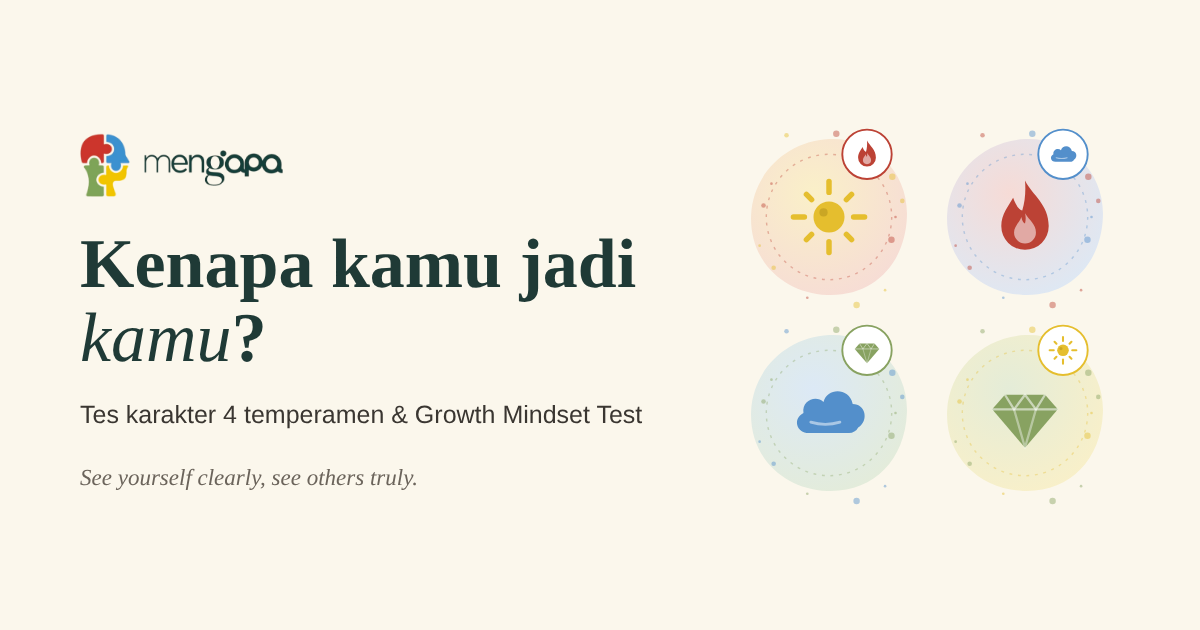
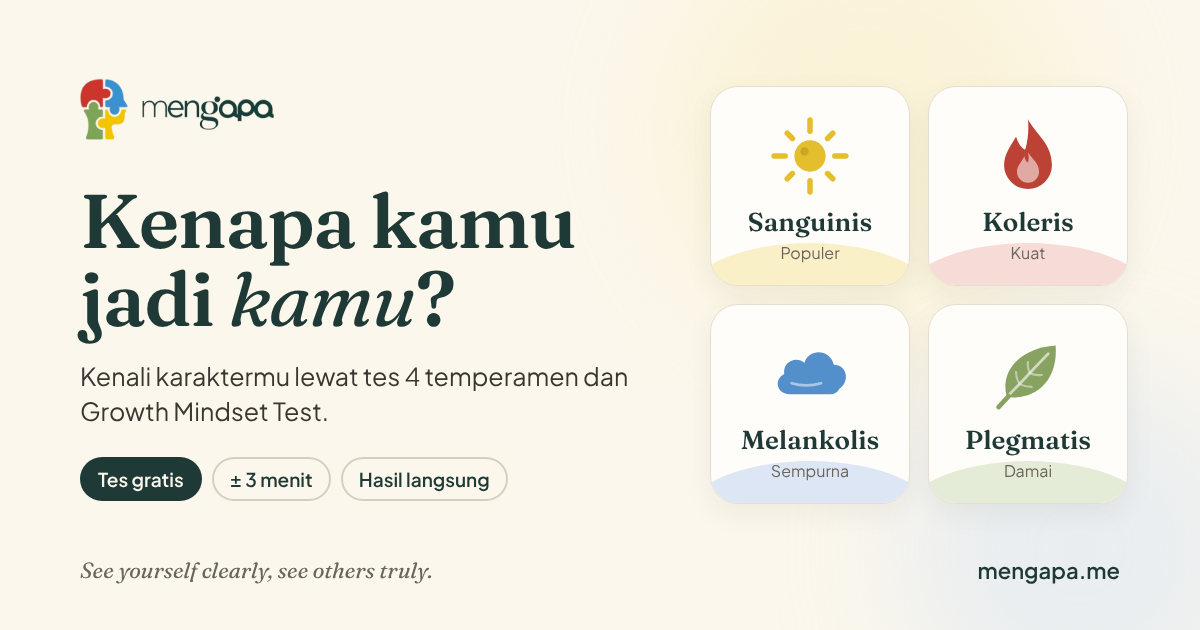
New link preview image, absolute og:image
Claude-Session: https://claude.ai/code/session_01Eb9LF9UwswxkZAqvSx1YYX

diff --git a/index.html b/index.html
@@ -9,7 +9,13 @@
   <meta property="og:type" content="website" />
   <meta property="og:title" content="Mengapa" />
   <meta property="og:description" content="Kenapa kamu jadi kamu? Tes karakter dan pola pikir dari Mengapa. See yourself clearly, see others truly." />
-  <meta property="og:image" content="/og.png" />
+  <meta property="og:url" content="https://mengapa.me/" />
+  <meta property="og:site_name" content="Mengapa" />
+  <meta property="og:image" content="https://mengapa.me/og.png" />
+  <meta property="og:image:width" content="1200" />
+  <meta property="og:image:height" content="630" />
+  <meta property="og:image:alt" content="Mengapa: tes karakter 4 temperamen dan Growth Mindset Test" />
+  <meta name="twitter:image" content="https://mengapa.me/og.png" />
   <meta name="twitter:card" content="summary_large_image" />
   <link rel="icon" href="/favicon.png" type="image/png" sizes="64x64" />
   <link rel="apple-touch-icon" href="/apple-touch-icon.png" />
